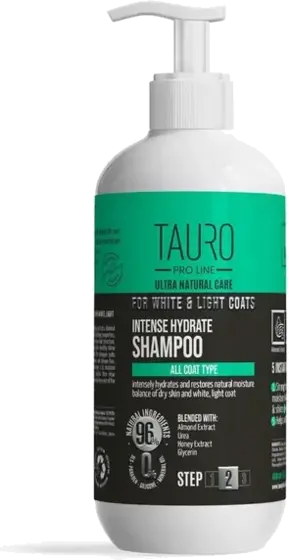
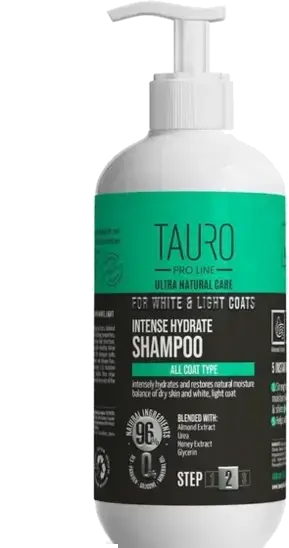
Home: cut the leftover floor shadow off the Tauro shampoo; "<1 yaş"
The Intense Hydrate shampoo cut-out on the Tauro brand card kept a
light floor shadow to the left of its base; it is trimmed at the
bottle's base now. The last "<1 il" age tag (NP Kitten) becomes
"<1 yaş", as everywhere else.

Claude-Session: https://claude.ai/code/session_01F5zC6FqyRH27LnhZvCMUQy

diff --git a/index.html b/index.html
@@ -212,7 +212,7 @@
             <span class="tile__line" data-i18n="home.brands.tpl">Профессиональный груминг</span>
             <span class="tile__scene" aria-hidden="true">
               <img class="tile__item" src="assets/lineup/tp-derma.webp" alt="" loading="lazy" decoding="async" style="--x:53%;--w:11%;--b:7%;--z:1;--i:1;--mx:49%;--mw:19%;" />
-              <img class="tile__item" src="assets/lineup/tp-shampoo.webp" alt="" loading="lazy" decoding="async" style="--x:36%;--w:17%;--b:6%;--z:2;--i:0;--mx:18%;--mw:30%;" />
+              <img class="tile__item" src="assets/lineup/tp-shampoo.webp?v=2" alt="" loading="lazy" decoding="async" style="--x:36%;--w:17%;--b:6%;--z:2;--i:0;--mx:18%;--mw:30%;" />
               <img class="tile__item" src="assets/lineup/tp-spray.webp" alt="" loading="lazy" decoding="async" style="--x:65%;--w:10.5%;--b:6%;--z:2;--i:2;--mx:68%;--mw:18%;" />
               <img class="tile__item" src="assets/lineup/tp-cream.webp" alt="" loading="lazy" decoding="async" style="--x:28%;--w:9%;--b:2%;--z:3;--i:3;--r:-9deg;--mx:6%;--mw:16%;" />
             </span>
@@ -422,7 +422,7 @@
     </div>
   </footer>
 
-  <script src="js/translations.js?v=18"></script>
+  <script src="js/translations.js?v=19"></script>
   <script src="js/spring.js?v=17"></script>
   <script src="js/home.js?v=17"></script>
   <script src="js/mobile.js?v=17"></script>

diff --git a/js/translations.js b/js/translations.js
@@ -509,7 +509,7 @@ const PRODUCTS = {
       group: { az: "Quru qida", ru: "Сухой корм", en: "Dry food" },
       items: [
         { emoji: "🐾", img: "assets/products/cat-sterilised.png", baby: true,
-          az: { cat: "Kitten", name: "Kitten — Poultry", desc: "1 yaşa qədər bütün cins balaca pişiklər üçün quş ətli qida; 63% heyvani protein, buğdasız, südəmizdirən pişiklər üçün uyğundur.", tags: ["Quş əti", "<1 il", "Buğdasız"] },
+          az: { cat: "Kitten", name: "Kitten — Poultry", desc: "1 yaşa qədər bütün cins balaca pişiklər üçün quş ətli qida; 63% heyvani protein, buğdasız, südəmizdirən pişiklər üçün uyğundur.", tags: ["Quş əti", "<1 yaş", "Buğdasız"] },
           ru: { cat: "Kitten", name: "Kitten — Птица", desc: "Корм с птицей для котят всех пород до 1 года; 63% животного белка, без пшеницы, подходит кормящим кошкам.", tags: ["Птица", "<1 года", "Без пшеницы"] },
           en: { cat: "Kitten", name: "Kitten — Poultry", desc: "Poultry food for kittens of all breeds under 1 year; 63% animal protein, no wheat, suitable for lactating cats.", tags: ["Poultry", "<1 year", "No wheat"] } },
         { emoji: "🏠", img: "assets/products/cat-indoor.png",

diff --git a/products.html b/products.html
@@ -160,7 +160,7 @@
     </div>
   </div>
 
-  <script src="js/translations.js?v=18"></script>
+  <script src="js/translations.js?v=19"></script>
   <script src="js/spring.js?v=17"></script>
   <script src="js/catalog.js?v=18"></script>
   <script src="js/catalog-added.js?v=17"></script>
